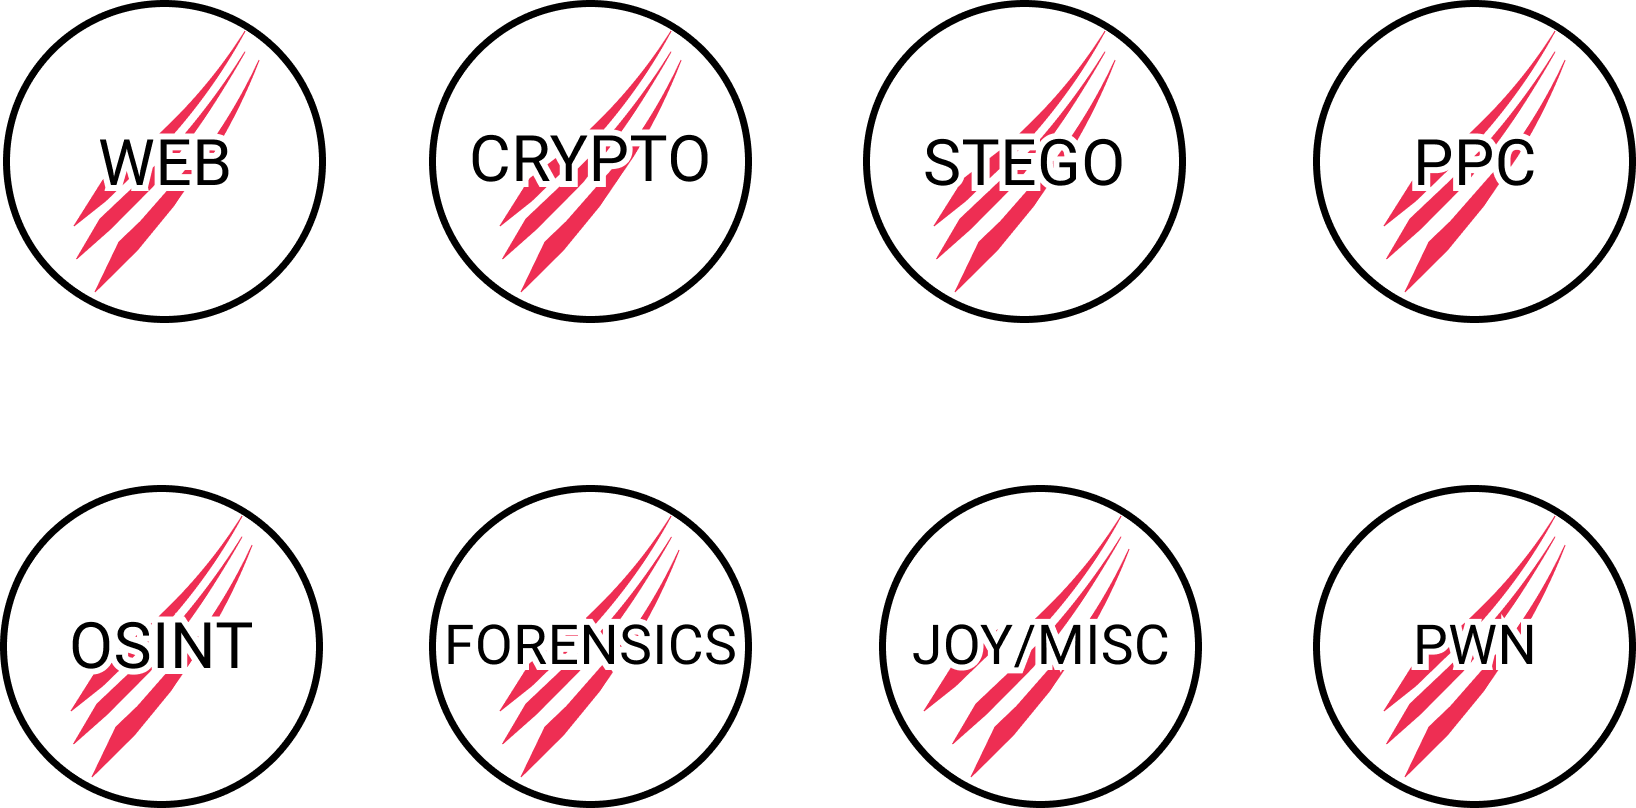
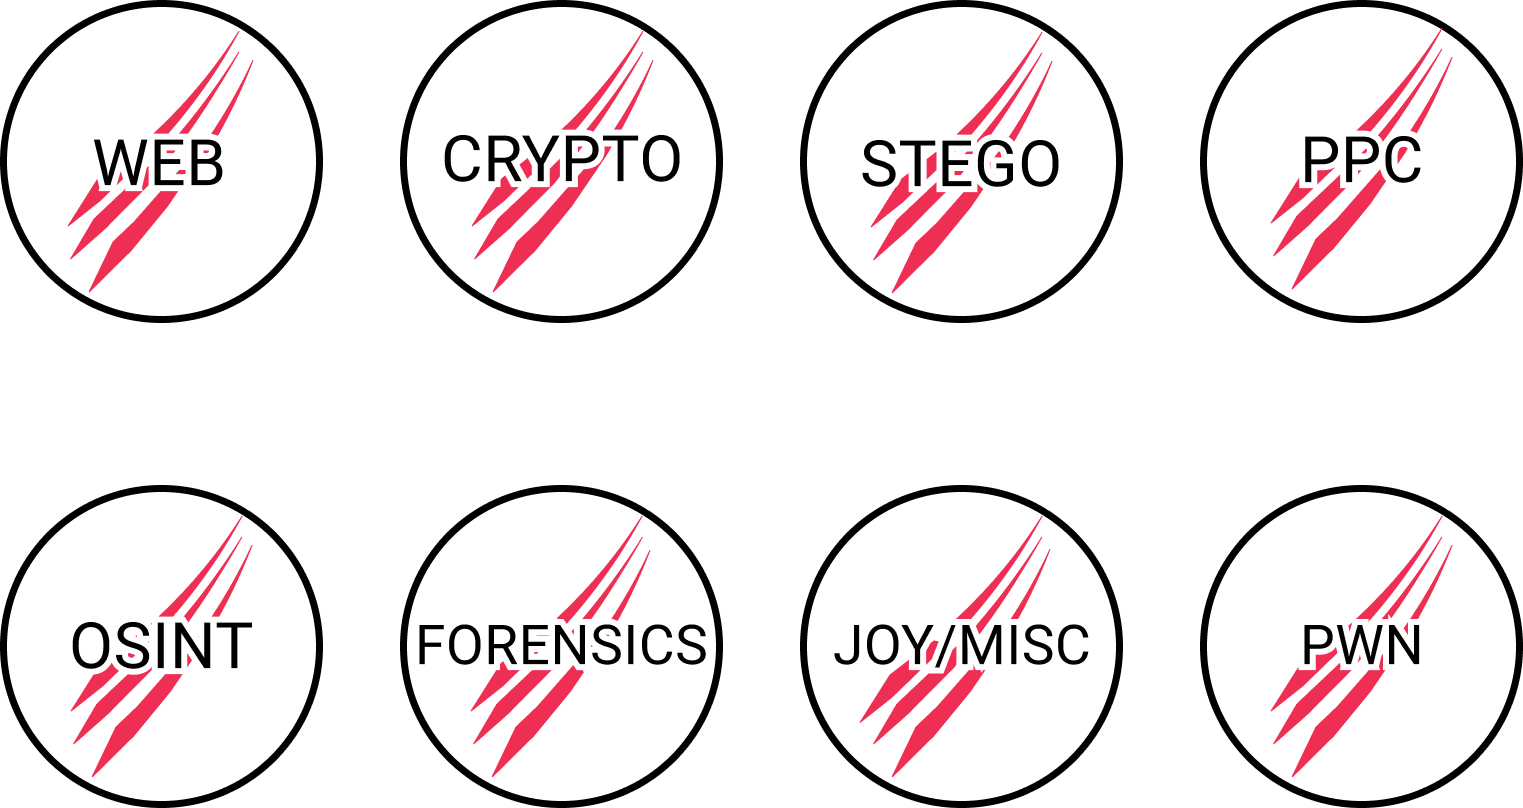
DONE 2

diff --git a/about.html b/about.html
@@ -12,7 +12,7 @@
         .categories-pc{
             width: 80%;
             align-content: center;
-            padding-left: 220px;
+            padding-left: 115px;
         }
         .categories-mobile {
             display: none;
